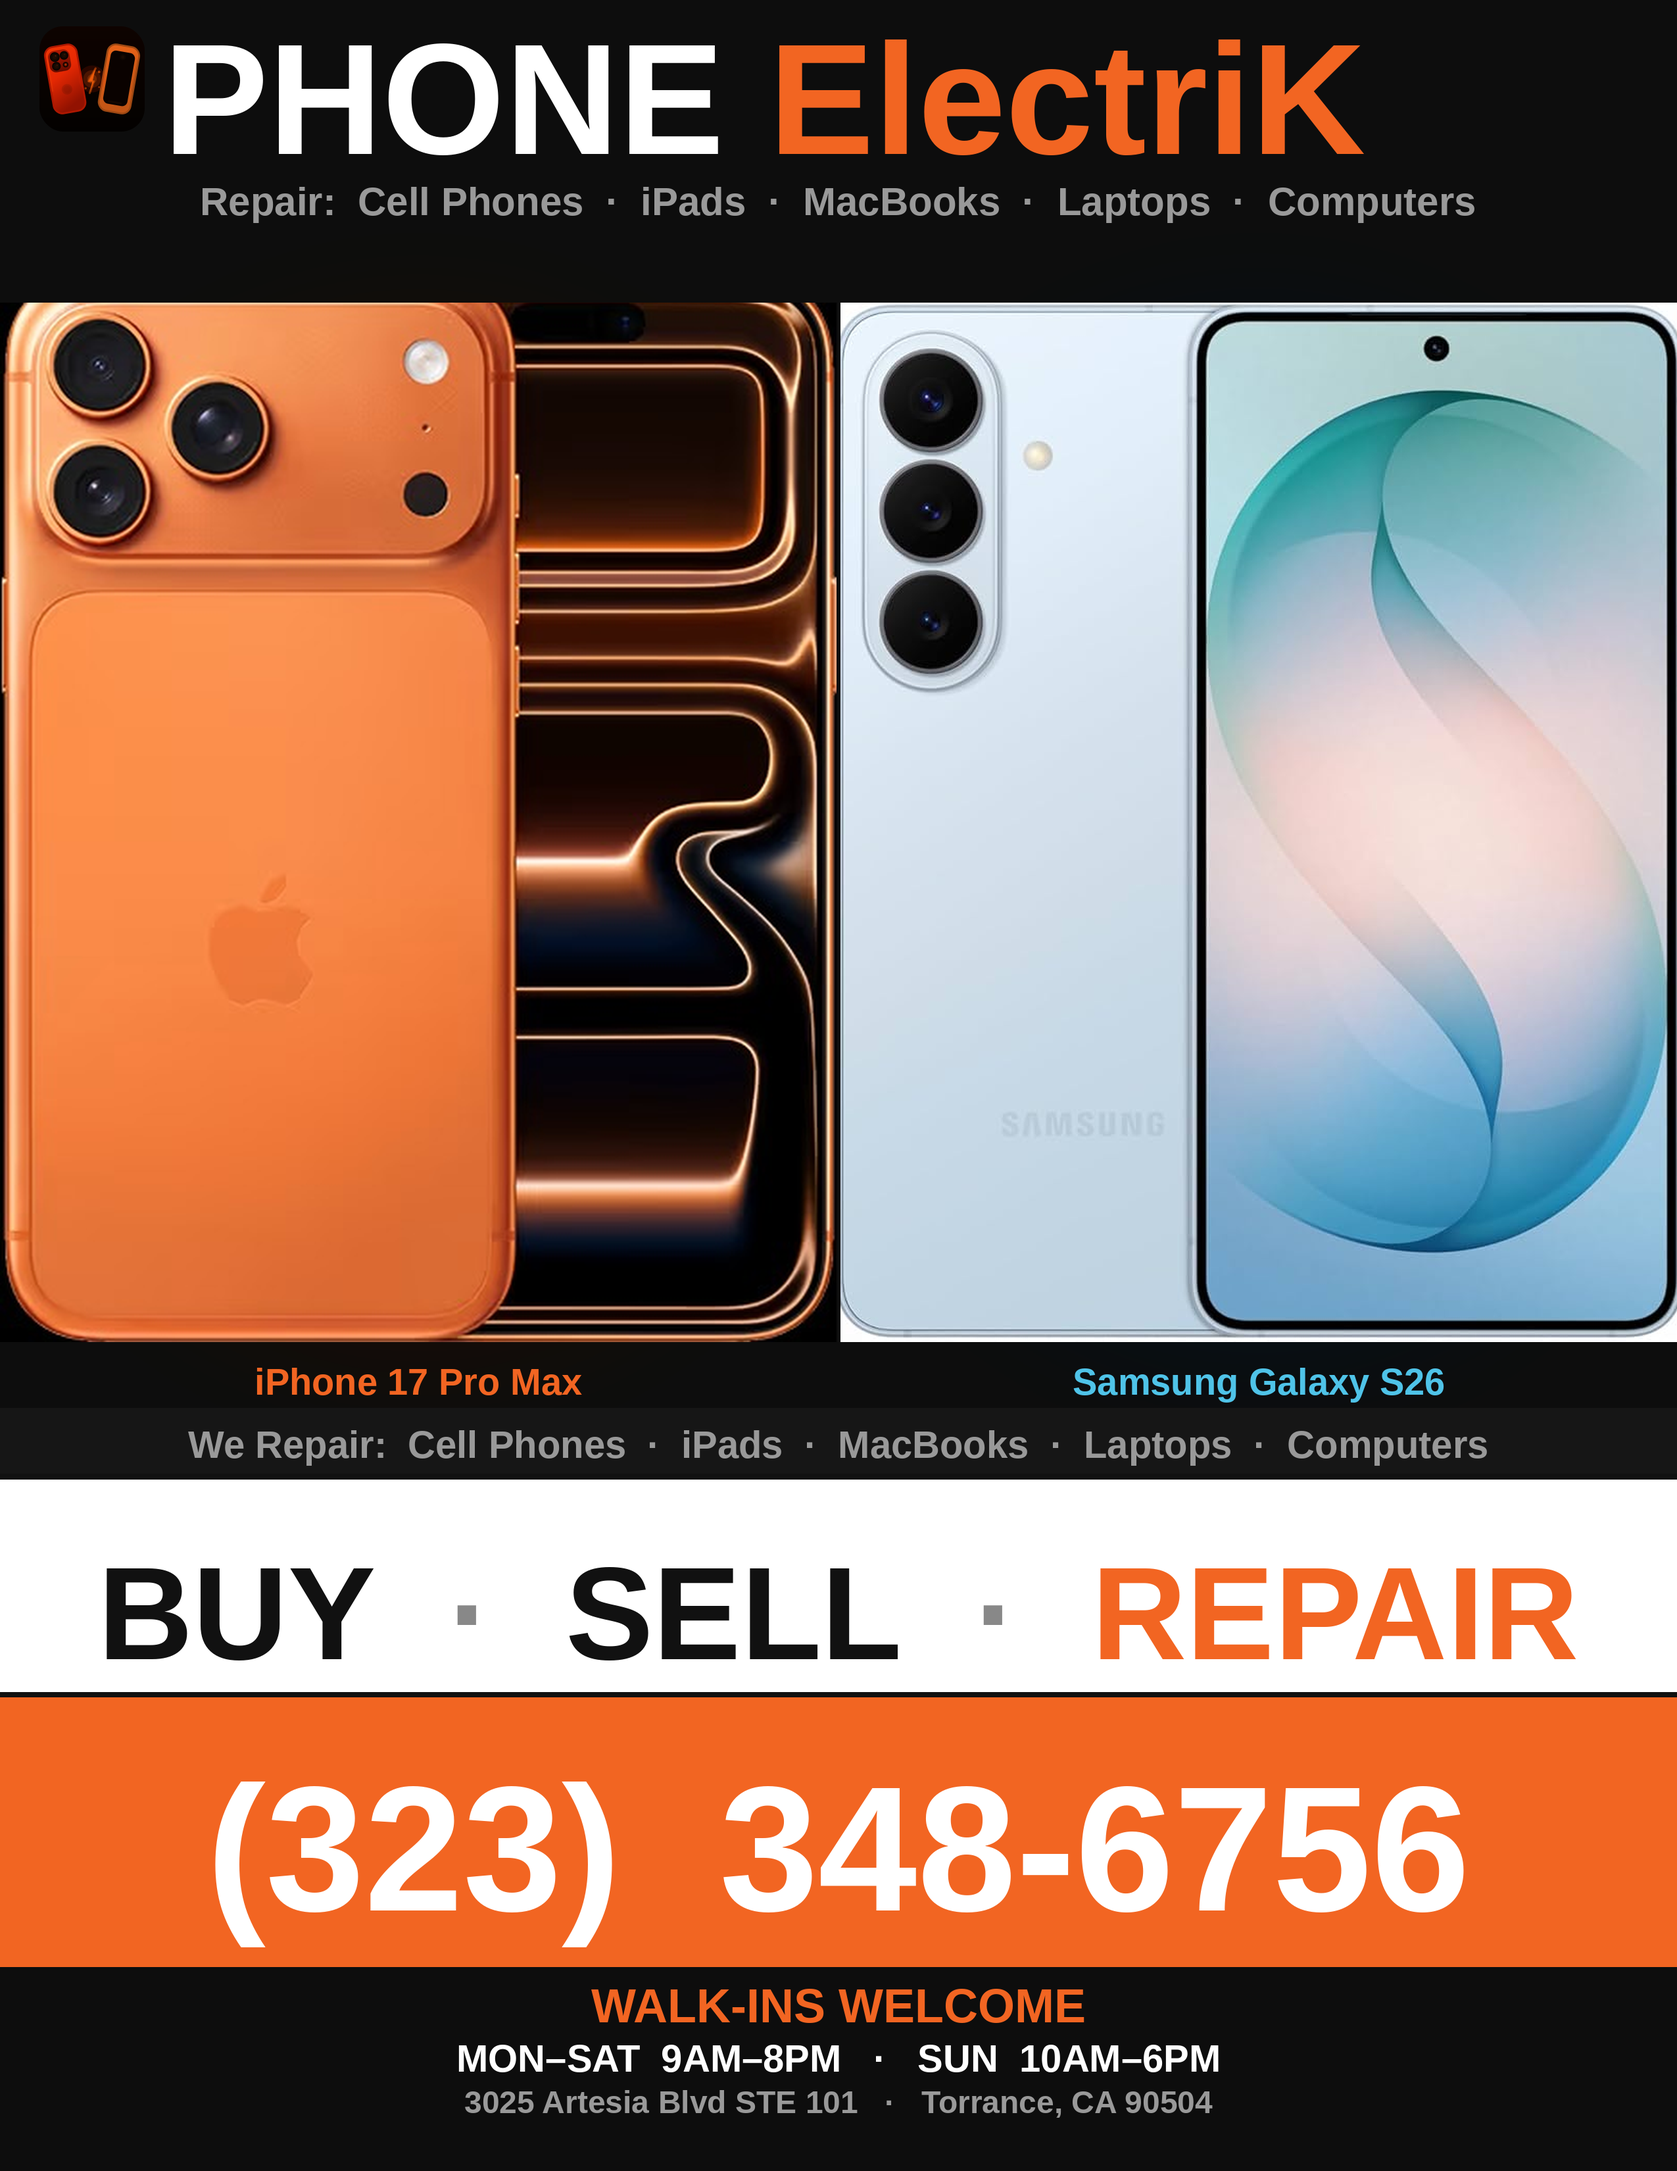
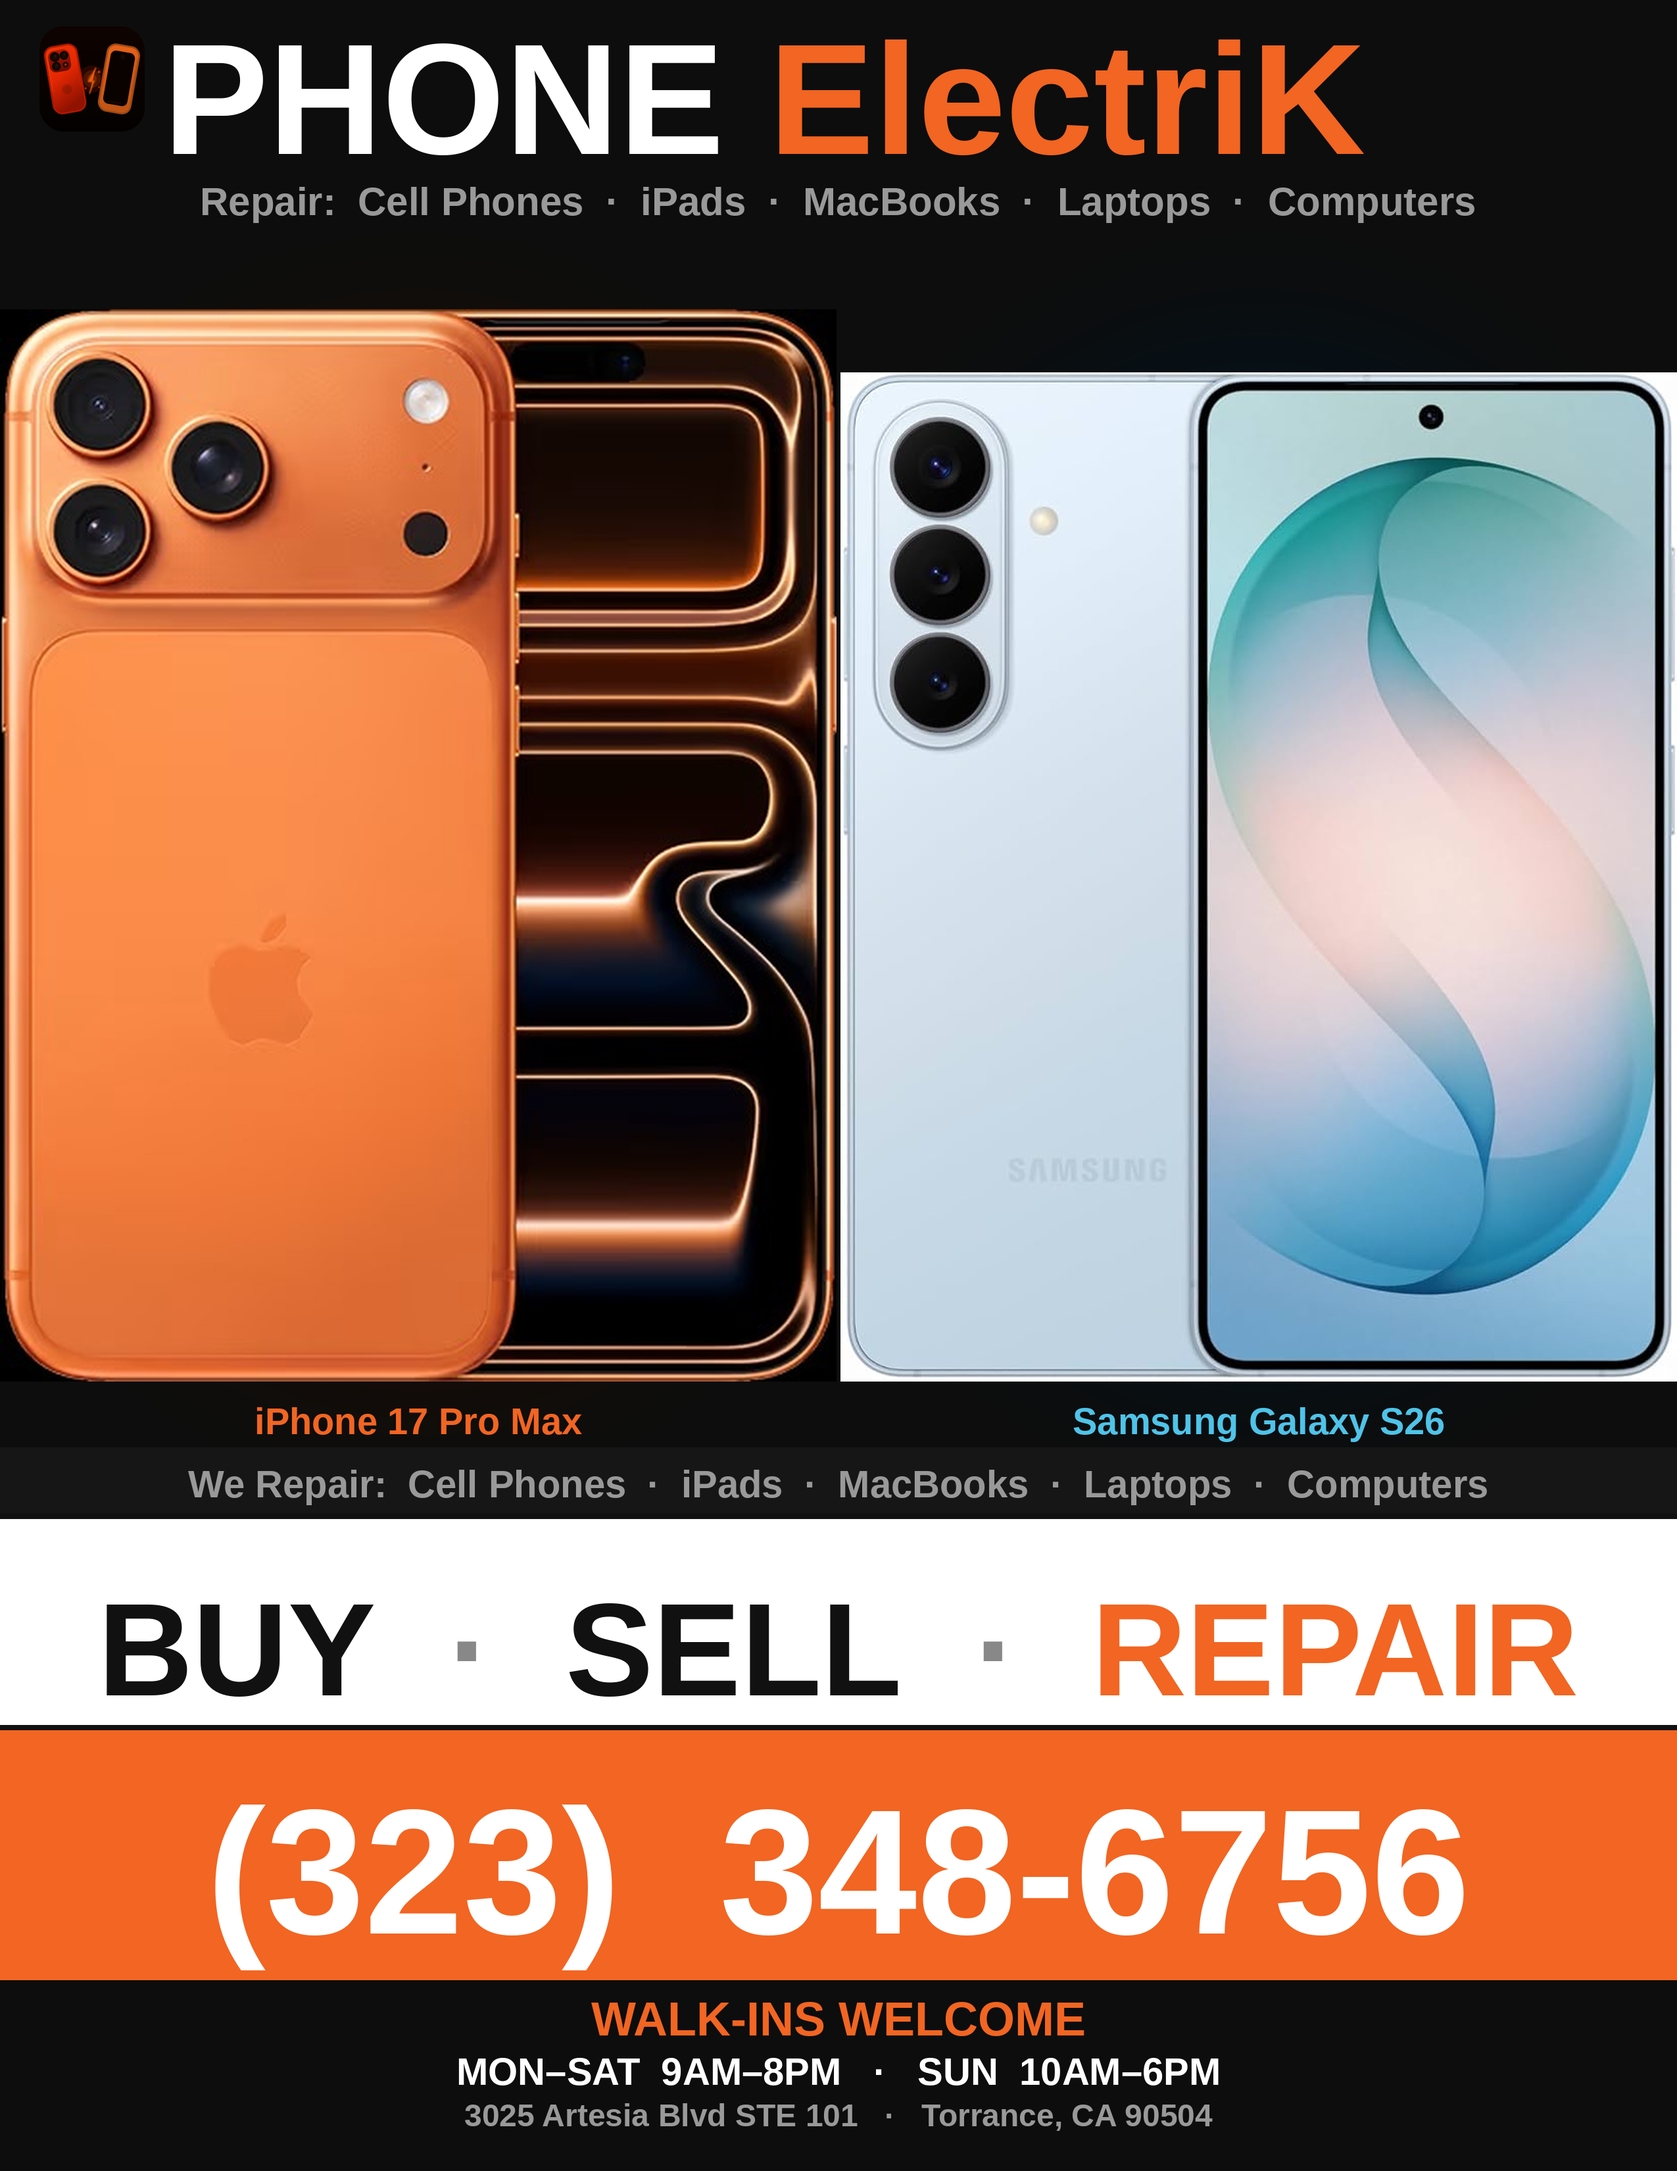
Show phones in full — scale to slot width with no height cropping
https://claude.ai/code/session_01PwEW43Wf9QC5PJzVBdfADC

Changed region(s): [[0.0, 0.1248, 1.0, 0.9988]]

diff --git a/make_poster.py b/make_poster.py
@@ -14,12 +14,12 @@ BLUE   = '#4fc3e8'
 
 # Section heights — must sum to H=3300
 HDR_H    = 460
-PHONE_H  = 1580
+PHONE_H  = 1640   # tall enough to show full iPhone at slot width (1630px)
 LABEL_H  = 100
 DEVICE_H = 100
-WHITE_H  = 340
-ORANGE_H = 410
-FOOTER_H = 310  # 460+1580+100+100+340+410+310 = 3300
+WHITE_H  = 330
+ORANGE_H = 380
+FOOTER_H = 290  # 460+1640+100+100+330+380+290 = 3300
 
 HDR_Y    = 0
 PHONE_Y  = HDR_H
@@ -92,16 +92,9 @@ draw.text(((W - (bb_tag[2] - bb_tag[0])) // 2, TAG_Y), tag_txt, font=fnt_tag, fi
 def paste_phone_cover(path, slot_x):
     img = Image.open(path)
     iw, ih = img.size
-    scale = max(SLOT_W / iw, PHONE_H / ih)
+    scale = SLOT_W / iw          # fill slot width exactly, never crop
     nw, nh = int(iw * scale), int(ih * scale)
     img = img.resize((nw, nh), Image.LANCZOS)
-    if nw > SLOT_W:
-        cx = (nw - SLOT_W) // 2
-        img = img.crop((cx, 0, cx + SLOT_W, nh))
-        nw = SLOT_W
-    if nh > PHONE_H:
-        img = img.crop((0, nh - PHONE_H, nw, nh))
-        nh = PHONE_H
     canvas.paste(img, (slot_x, PHONE_Y + (PHONE_H - nh)))
 
 base = os.path.dirname(__file__)
